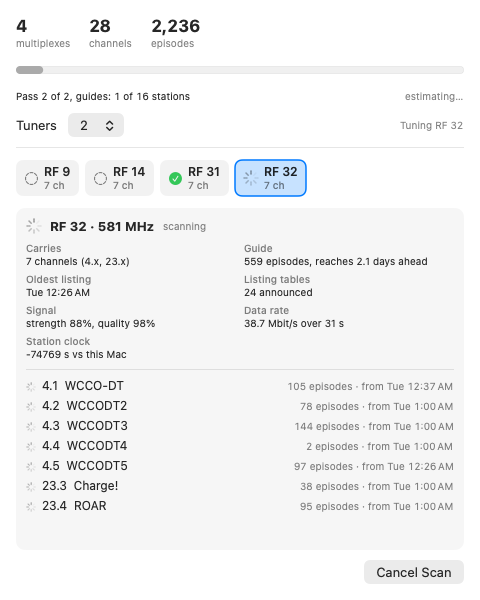
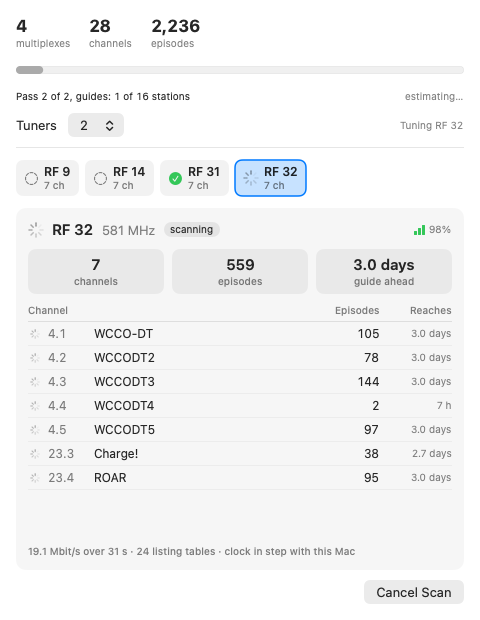
OTA scan window: summary tiles (channels, episodes, guide ahead), a channel table (number, name, episodes, how far ahead each reaches), signal bars, technical readings in a footnote; drops the 4.x wording and the oldest-start lines
Claude-Session: https://claude.ai/code/session_01Aug3wQw5n6LhRg3jKNcqb4

diff --git a/Sources/hdhr_VCR/Views/OTAScanView.swift b/Sources/hdhr_VCR/Views/OTAScanView.swift
@@ -53,7 +53,7 @@ struct OTAScanView: View {
             }
         }
         .padding(16)
-        .frame(width: 480, height: 600)
+        .frame(width: 480, height: 620)
         .accessibilityIdentifier("ota-scan-window")
         .background(WindowAction(trigger: true) { $0.level = .floating })
     }
@@ -148,76 +148,122 @@ struct OTAScanView: View {
     // MARK: the selected station
 
     private func panel(_ row: OTAMultiplexRow) -> some View {
-        VStack(alignment: .leading, spacing: 8) {
+        let i = row.info
+        return VStack(alignment: .leading, spacing: 10) {
             HStack(spacing: 8) {
                 marker(row.state)
-                Text("RF \(row.rf) · \(Self.mhz(row.info.frequencyMHz))").font(.headline)
-                Text(stateWord(row.state)).font(.caption).foregroundStyle(.secondary)
+                Text("RF \(row.rf)").font(.title3.bold())
+                Text(Self.mhz(i.frequencyMHz)).foregroundStyle(.secondary)
+                Text(stateWord(row.state)).font(.caption).padding(.horizontal, 6).padding(.vertical, 1)
+                    .background(Capsule().fill(Color.secondary.opacity(0.15)))
                 Spacer(minLength: 0)
-            }
-            facts(row)
-            Divider()
-            ScrollView {
-                VStack(alignment: .leading, spacing: 5) {
-                    ForEach(row.subChannels) { sub in
-                        HStack(alignment: .firstTextBaseline, spacing: 6) {
-                            if row.state == .scanning {
-                                if sub.done { Image(systemName: "checkmark.circle.fill").foregroundStyle(.green) }
-                                else { ProgressView().controlSize(.mini) }
-                            }
-                            Text("\(sub.number)  \(sub.name)").font(.callout)
-                            Spacer(minLength: 8)
-                            if !progress.lineupOnly {
-                                if let text = sub.episodeText { Text(text).font(.caption.monospacedDigit()).foregroundStyle(.secondary) }
-                                else if row.state != .waiting && row.state != .scanning { Text("no guide").font(.caption).foregroundStyle(.secondary) }
-                            }
-                        }
-                        .accessibilityElement(children: .combine)
-                        .accessibilityIdentifier("ota-scan-sub-\(sub.number)")
+                if let q = i.quality ?? i.strength {
+                    HStack(spacing: 4) {
+                        SignalBarsView(bucket: SignalBucket(Double(q) / 100))
+                        Text("\(q)%").font(.caption.monospacedDigit()).foregroundStyle(.secondary)
                     }
+                    .help([i.strength.map { "Strength \($0)%" }, i.quality.map { "Quality \($0)%" }].compactMap { $0 }.joined(separator: " · "))
+                    .accessibilityElement(children: .ignore)
+                    .accessibilityLabel("Signal")
+                    .accessibilityValue([i.strength.map { "strength \($0) percent" }, i.quality.map { "quality \($0) percent" }].compactMap { $0 }.joined(separator: ", "))
+                    .accessibilityIdentifier("ota-scan-signal")
                 }
-                .frame(maxWidth: .infinity, alignment: .leading)
             }
+            HStack(spacing: 8) {
+                tile("\(row.subChannels.count)", "channels", id: "channels")
+                if !progress.lineupOnly {
+                    tile(i.episodes > 0 ? "\(i.episodes)" : "–", "episodes", id: "episodes")
+                    tile(guideTileValue(row), "guide ahead", id: "guide")
+                }
+            }
+            channelTable(row)
+            Text(footnote(row)).font(.caption2).foregroundStyle(.secondary).lineLimit(2)
+                .accessibilityIdentifier("ota-scan-facts")
         }
-        .padding(10)
-        .background(RoundedRectangle(cornerRadius: 9).fill(Color.secondary.opacity(0.07)))
+        .padding(12)
+        .background(RoundedRectangle(cornerRadius: 10).fill(Color.secondary.opacity(0.07)))
         .accessibilityElement(children: .contain)
         .accessibilityLabel("RF \(row.rf), \(row.subChannels.count) channels, \(stateWord(row.state))")
         .accessibilityIdentifier("ota-scan-mux-\(row.rf)")
     }
 
-    /// What is interesting about the station itself, as label/value pairs in two columns.
-    private func facts(_ row: OTAMultiplexRow) -> some View {
+    private func tile(_ value: String, _ label: String, id: String) -> some View {
+        VStack(spacing: 1) {
+            Text(value).font(.title3.monospacedDigit().bold()).lineLimit(1).minimumScaleFactor(0.7)
+            Text(label).font(.caption2).foregroundStyle(.secondary)
+        }
+        .frame(maxWidth: .infinity)
+        .padding(.vertical, 6)
+        .background(RoundedRectangle(cornerRadius: 8).fill(Color.secondary.opacity(0.10)))
+        .accessibilityElement(children: .ignore)
+        .accessibilityLabel(label)
+        .accessibilityValue(value)
+        .accessibilityIdentifier("ota-scan-tile-\(id)")
+    }
+
+    /// How far ahead the station's guide reaches, or why there is none.
+    private func guideTileValue(_ row: OTAMultiplexRow) -> String {
         let i = row.info
-        var items: [(String, String)] = []
-        let majors = i.majors.map { "\($0).x" }.joined(separator: ", ")
-        items.append(("Carries", "\(row.subChannels.count) channels" + (majors.isEmpty ? "" : " (\(majors))")
-                      + (i.audioChannels > 0 ? ", \(i.audioChannels) audio-only" : "")))
-        if !progress.lineupOnly {
-            if i.guideTablesAnnounced == 0, row.state != .scanning { items.append(("Guide", "none sent")) }
-            else if i.episodes > 0 {
-                var g = "\(i.episodes) episodes"
-                if let hours = i.guideHoursAhead() { g += ", reaches \(Self.hoursText(hours)) ahead" }
-                items.append(("Guide", g))
-            } else { items.append(("Guide", "reading…")) }
-            if let first = i.earliest { items.append(("Oldest listing", OTASubChannelRow.startText(first))) }
-            if i.guideTablesAnnounced > 0 { items.append(("Listing tables", "\(i.guideTablesAnnounced) announced")) }
-        }
-        if i.strength != nil || i.quality != nil {
-            items.append(("Signal", [i.strength.map { "strength \($0)%" }, i.quality.map { "quality \($0)%" }].compactMap { $0 }.joined(separator: ", ")))
-        }
-        if let mbps = i.mbps { items.append(("Data rate", String(format: "%.1f Mbit/s over %d s", mbps, Int(i.seconds.rounded())))) }
-        if let off = i.clockOffset() { items.append(("Station clock", off == 0 ? "matches this Mac" : "\(off > 0 ? "+" : "")\(off) s vs this Mac")) }
-        return LazyVGrid(columns: [GridItem(.flexible(), alignment: .topLeading), GridItem(.flexible(), alignment: .topLeading)], alignment: .leading, spacing: 5) {
-            ForEach(items, id: \.0) { item in
-                VStack(alignment: .leading, spacing: 0) {
-                    Text(item.0).font(.caption2).foregroundStyle(.secondary)
-                    Text(item.1).font(.caption)
+        if let hours = i.guideHoursAhead() { return Self.hoursText(hours) }
+        if i.guideTablesAnnounced == 0, row.state != .scanning { return "none sent" }
+        return "reading…"
+    }
+
+    private func channelTable(_ row: OTAMultiplexRow) -> some View {
+        VStack(spacing: 0) {
+            HStack(spacing: 6) {
+                Text("Channel").frame(maxWidth: .infinity, alignment: .leading)
+                if !progress.lineupOnly {
+                    Text("Episodes").frame(width: 64, alignment: .trailing)
+                    Text("Reaches").frame(width: 66, alignment: .trailing)
                 }
-                .accessibilityElement(children: .combine)
-                .accessibilityIdentifier("ota-scan-fact-\(item.0.replacingOccurrences(of: " ", with: "-").lowercased())")
+            }
+            .font(.caption2).foregroundStyle(.secondary)
+            .padding(.bottom, 4)
+            Divider()
+            ScrollView {
+                VStack(spacing: 0) {
+                    ForEach(row.subChannels) { sub in
+                        HStack(spacing: 6) {
+                            Group {
+                                if row.state == .scanning && !sub.done { ProgressView().controlSize(.mini) }
+                                else if row.state == .scanning { Image(systemName: "checkmark.circle.fill").foregroundStyle(.green) }
+                                else { Color.clear }
+                            }
+                            .frame(width: 14)
+                            Text(sub.number).font(.callout.monospacedDigit()).foregroundStyle(.secondary).frame(width: 40, alignment: .leading)
+                            Text(sub.name).font(.callout).lineLimit(1)
+                            if sub.audioOnly {
+                                Image(systemName: "speaker.wave.2").font(.caption).foregroundStyle(.secondary).help("Audio only")
+                                    .accessibilityLabel("audio only")
+                            }
+                            Spacer(minLength: 4)
+                            if !progress.lineupOnly {
+                                Text(sub.listings > 0 ? "\(sub.listings)" : "–").font(.callout.monospacedDigit())
+                                    .frame(width: 64, alignment: .trailing)
+                                Text(sub.reachText() ?? (row.state == .scanning || row.state == .waiting ? "" : "no guide"))
+                                    .font(.caption).foregroundStyle(.secondary)
+                                    .frame(width: 66, alignment: .trailing)
+                            }
+                        }
+                        .padding(.vertical, 4)
+                        .accessibilityElement(children: .combine)
+                        .accessibilityIdentifier("ota-scan-sub-\(sub.number)")
+                        Divider().opacity(0.4)
+                    }
+                }
             }
         }
+    }
+
+    /// The technical readings, kept small: data rate, listing tables announced, the station's clock against this Mac's.
+    private func footnote(_ row: OTAMultiplexRow) -> String {
+        let i = row.info
+        var parts: [String] = []
+        if let mbps = i.mbps { parts.append(String(format: "%.1f Mbit/s over %d s", mbps, Int(i.seconds.rounded()))) }
+        if i.guideTablesAnnounced > 0, !progress.lineupOnly { parts.append("\(i.guideTablesAnnounced) listing tables") }
+        if let off = i.clockOffset() { parts.append(abs(off) <= 2 ? "clock in step with this Mac" : "clock \(off > 0 ? "+" : "")\(off) s vs this Mac") }
+        return parts.joined(separator: " · ")
     }
 
     static func mhz(_ v: Double) -> String { v == v.rounded() ? String(format: "%.0f MHz", v) : String(format: "%.1f MHz", v) }

diff --git a/Sources/hdhr_VCR/OTAGuide/OTAScanProgress.swift b/Sources/hdhr_VCR/OTAGuide/OTAScanProgress.swift
@@ -10,25 +10,14 @@ struct OTASubChannelRow: Identifiable, Equatable {
     var name: String
     var listings: Int
     var done: Bool
-    /// Start of the earliest program listed for this channel (the one on the air now, usually), or nil before any listing arrives.
-    var earliest: Date?
+    var audioOnly = false
+    /// End of the last program listed for this channel: how far ahead its guide reaches.
+    var latestEnd: Date?
 
-    /// "103 episodes · from Tue 1:00 PM"; nil while there are none.
-    var episodeText: String? { Self.episodeText(count: listings, earliest: earliest) }
-
-    static func episodeText(count: Int, earliest: Date?, locale: Locale = .current, timeZone: TimeZone = .current) -> String? {
-        guard count > 0 else { return nil }
-        let noun = count == 1 ? "1 episode" : "\(count) episodes"
-        guard let earliest else { return noun }
-        return noun + " · from " + startText(earliest, locale: locale, timeZone: timeZone)
-    }
-
-    /// "Tue 7:00 PM".
-    static func startText(_ date: Date, locale: Locale = .current, timeZone: TimeZone = .current) -> String {
-        let f = DateFormatter()
-        f.locale = locale; f.timeZone = timeZone
-        f.setLocalizedDateFormatFromTemplate("EEEjmm")
-        return f.string(from: date)
+    /// "2.8 days" / "14 h" ahead of `now`; nil when nothing is listed.
+    func reachText(now: Date = Date()) -> String? {
+        guard listings > 0, let latestEnd else { return nil }
+        return OTAScanView.hoursText(max(0, latestEnd.timeIntervalSince(now) / 3600))
     }
 }
 
@@ -40,7 +29,6 @@ struct OTAMuxInfo: Equatable {
     var guideTablesAnnounced = 0        // the Master Guide Table's count of listing tables: 0 means the station sends no guide
     var broadcastTime: Date?            // the station's own clock (System Time Table)
     var episodes = 0
-    var earliest: Date?
     var latestEnd: Date?
     var strength: Int?                  // the tuner's signal strength / quality readings, percent
     var quality: Int?
@@ -147,7 +135,7 @@ final class OTAScanProgress: ObservableObject {
         let carried = result.channels.filter { $0.serviceType == 2 || $0.serviceType == 3 }
         let subs = carried.map {
             OTASubChannelRow(sourceId: $0.sourceId, number: $0.number, name: $0.name, listings: counts[$0.sourceId] ?? 0, done: done && !(twoPass && pass == 1),
-                              earliest: bySource[$0.sourceId]?.map(\.start).min())
+                              audioOnly: $0.serviceType == 3, latestEnd: bySource[$0.sourceId]?.map(\.end).max())
         }.sorted { ($0.number.split(separator: ".").compactMap { Int($0) }).lexicographicallyPrecedes($1.number.split(separator: ".").compactMap { Int($0) }) }
         guard !subs.isEmpty else { return }
         var info = OTAMuxInfo(frequencyMHz: Double(OTAScanner.frequencyHz(rf: rf) ?? 0) / 1_000_000)
@@ -155,7 +143,6 @@ final class OTAScanProgress: ObservableObject {
         info.guideTablesAnnounced = result.announcedEITCount
         info.broadcastTime = result.broadcastTime
         info.episodes = result.events.count
-        info.earliest = result.events.map(\.start).min()
         info.latestEnd = result.events.map(\.end).max()
         info.majors = Array(Set(carried.map(\.major))).sorted()
         info.videoChannels = carried.filter { $0.serviceType == 2 }.count

diff --git a/Tests/hdhr_VCRTests/OTAGuide/OTAStoreTests.swift b/Tests/hdhr_VCRTests/OTAGuide/OTAStoreTests.swift
@@ -82,15 +82,17 @@ struct OTAStoreTests {
         #expect(!OTAStore.hasFreshGuide(deviceId: "TEST", root: root))
     }
 
-    @Test func theScanWindowSaysEpisodesAndHowFarBackTheyStart() {
-        let utc = TimeZone(identifier: "UTC")!, en = Locale(identifier: "en_US")
-        // 2026-10-20 18:00 UTC is a Tuesday.
-        let start = Date(timeIntervalSince1970: 1_792_519_200)
-        #expect(OTASubChannelRow.episodeText(count: 0, earliest: start, locale: en, timeZone: utc) == nil)
-        #expect(OTASubChannelRow.episodeText(count: 1, earliest: nil, locale: en, timeZone: utc) == "1 episode")
-        let text = OTASubChannelRow.episodeText(count: 103, earliest: start, locale: en, timeZone: utc)
-        #expect(text?.hasPrefix("103 episodes · from Tue") == true)
-        #expect(text?.contains("6:00") == true)
+    @Test func aChannelSaysHowFarAheadItsGuideReaches() {
+        let now = Date(timeIntervalSince1970: 1_792_519_200)
+        var sub = OTASubChannelRow(sourceId: 1, number: "4.1", name: "WCCO", listings: 0, done: false)
+        #expect(sub.reachText(now: now) == nil)                      // nothing listed
+        sub.listings = 103
+        sub.latestEnd = now.addingTimeInterval(66 * 3600)
+        #expect(sub.reachText(now: now) == "2.8 days")
+        sub.latestEnd = now.addingTimeInterval(14 * 3600)
+        #expect(sub.reachText(now: now) == "14 h")
+        sub.latestEnd = now.addingTimeInterval(-3600)               // already past: 0 h, never negative
+        #expect(sub.reachText(now: now) == "0 h")
     }
 
     @Test func aStationsFactsAreWorkedOutFromWhatWasRead() throws {
@@ -127,9 +129,10 @@ struct OTAStoreTests {
         #expect(row.info.majors == [4, 23])
         #expect(row.info.videoChannels == 7)
         #expect(row.info.episodes == result.events.count)
-        #expect(row.info.earliest != nil && row.info.latestEnd != nil)
+        #expect(row.info.latestEnd != nil)
         #expect(row.info.frequencyMHz == 581)
-        #expect(row.subChannels.first?.earliest != nil)
+        #expect(row.subChannels.first?.latestEnd != nil)
+        #expect(row.subChannels.allSatisfy { !$0.audioOnly })
     }
 
     @Test func ageTextReadsLikeAPerson() {

diff --git a/docs/OTAScanView.md b/docs/OTAScanView.md
@@ -1,6 +1,6 @@
 # OTAScanView
 
-Small floating window ("Over-the-Air Scan", id `ota-scan`, 480×600, title bar, `.floating` level via `WindowAction`) that opens when an OTA scan
+Small floating window ("Over-the-Air Scan", id `ota-scan`, 480×620, title bar, `.floating` level via `WindowAction`) that opens when an OTA scan
 starts (`AppState.otaWindowRequest`; a scheduled scan opens it without taking focus). Deliberately not a modal: a blocking modal would stop
 the web server and recording start/stop (the "No blocking dialogs" invariant); a floating window stays in front but the app keeps running.
 
@@ -10,15 +10,14 @@ the web server and recording start/stop (the "No blocking dialogs" invariant); a
   lets the capture in progress finish and then idles that worker; raising it starts the idle worker within a second.
 - **Two passes (full scan):** the progress line reads "Pass 1 of 2, channel lists: N of 49 RF channels", then "Pass 2 of 2, guides: N of M stations"; the bar and time estimate restart for each pass. After pass 1 every station row shows a dashed circle (waiting for its guide) until pass 2 reaches it.
 - **Tabs (top):** one per station found, in RF order, scrolling sideways (`ota-scan-tab-<RF>`): the state marker (dashed circle = waiting for its guide, spinner = being read, green check = done, orange = sends no guide or failed), "RF 32" and the channel count. **The tab for the station being worked on is selected automatically** and scrolled into view as the scan moves on; click any tab to look at another one instead, and a **Follow** button (`ota-scan-follow`) appears to go back to the scan.
-- **Station panel (selected tab):** a title (`RF 32 · 581 MHz`, state) and a two-column grid of facts about the station (ids `ota-scan-fact-<name>`):
-  *Carries* (channel count, the major numbers such as 4.x, 23.x, audio-only count), *Guide* (episode count and how far ahead it reaches, or "none sent" when the station announces no listing tables), *Oldest listing* (start of the earliest program), *Listing tables* (how many the station announced), *Signal* (the tuner's own strength/quality % read a couple of seconds in), *Data rate* (average Mbit/s over the read; a full multiplex is about 19.4) and *Station clock* (its broadcast clock vs this Mac's). Below it, **each channel** (`4.1  WCCO-DT`) with "103 episodes · from Tue 1:00 PM" (episode count and the start of its earliest listing), a spinner while it is being read, "no guide" when it has none. Sub-channels of one multiplex are read together from one stream, so they finish together.
+- **Station panel (selected tab):** the title (`RF 32`, `581 MHz`, a state chip) with the tuner's **signal** at the right (bars + quality %, `ota-scan-signal`; strength and quality in the tooltip); three **tiles** (`ota-scan-tile-channels|episodes|guide`): how many channels the station carries, how many episodes are listed across them, and **how far ahead its guide reaches** ("3.0 days", or "none sent" when the station announces no listing tables, "reading…" while it is still coming in); then the **channel table** (`ota-scan-sub-<number>`): channel number, name (a speaker icon marks audio-only channels), **episodes** listed for it and how far ahead it **reaches**, with a spinner / green check per channel while the station is being read and "no guide" when it has none. A small footnote (`ota-scan-facts`) gives the technical readings: data rate over the read (a full multiplex is about 19.4 Mbit/s), listing tables announced, and the station's broadcast clock against this Mac's. Channels of one station are read together from one stream, so they finish together.
 - **Footer:** count of RF channels with no signal; Cancel Scan while running, Close when done.
 - **Progress bar:** RF channels finished of total, with a rough "about N min left" (average time per channel so far × channels to go; shown after 3 channels).
 
 ## Automation
 Accessibility identifiers: `ota-scan-window`, `ota-scan-progress` (value "N of M RF channels"), `ota-scan-count`, `ota-scan-time-left`, `ota-scan-status`,
 `ota-scan-tuners` (the pulldown), `ota-scan-cancel`, `ota-scan-close`, `ota-scan-multiplexes` / `-channels` / `-listings` (label + value), per-row
-`ota-scan-tab-<RF>` / `ota-scan-mux-<RF>` (the selected station's panel; label "RF 32, 7 channels, scanning|done|no guide: …"), `ota-scan-follow`, `ota-scan-fact-*` and `ota-scan-sub-<major.minor>`. Settings: `settings-ota-scan`,
+`ota-scan-tab-<RF>` / `ota-scan-mux-<RF>` (the selected station's panel; label "RF 32, 7 channels, scanning|done|no guide: …"), `ota-scan-follow`, `ota-scan-signal`, `ota-scan-tile-*`, `ota-scan-facts` and `ota-scan-sub-<major.minor>`. Settings: `settings-ota-scan`,
 `settings-ota-lineup-scan`, `settings-ota-cancel`, `settings-ota-schedule`. Without the UI: `POST /api/ota-scan` / `GET /api/ota-status` (docs/OTAGuide.md).
 
 ![The scan window part-way through a scan](screenshots/ota-scan-window.png)
